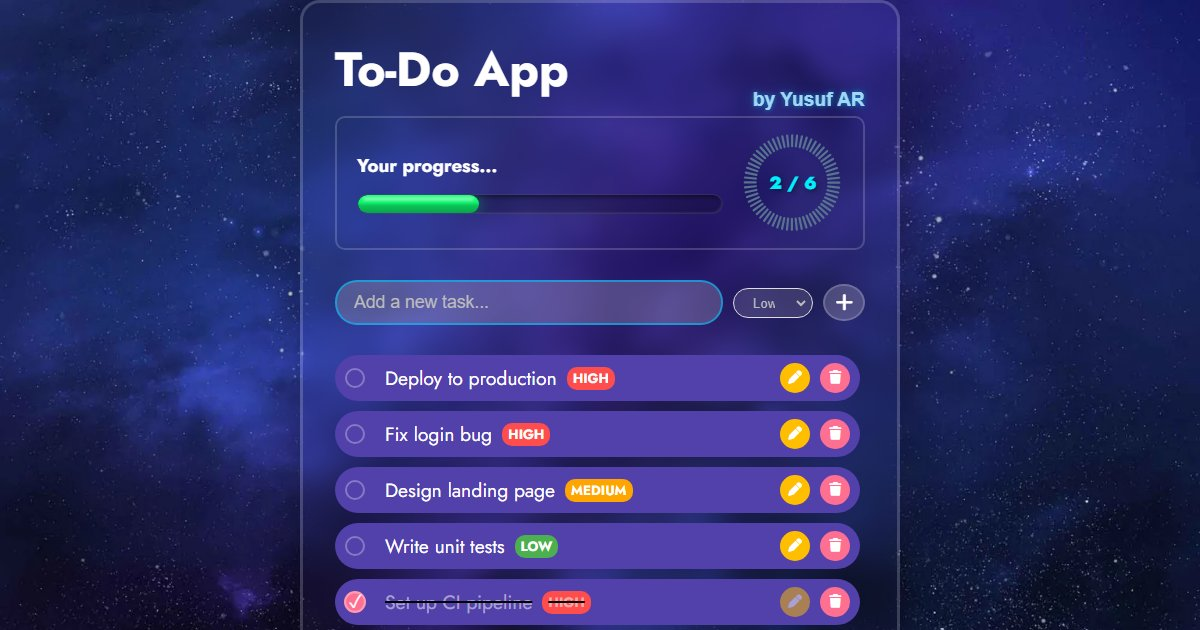
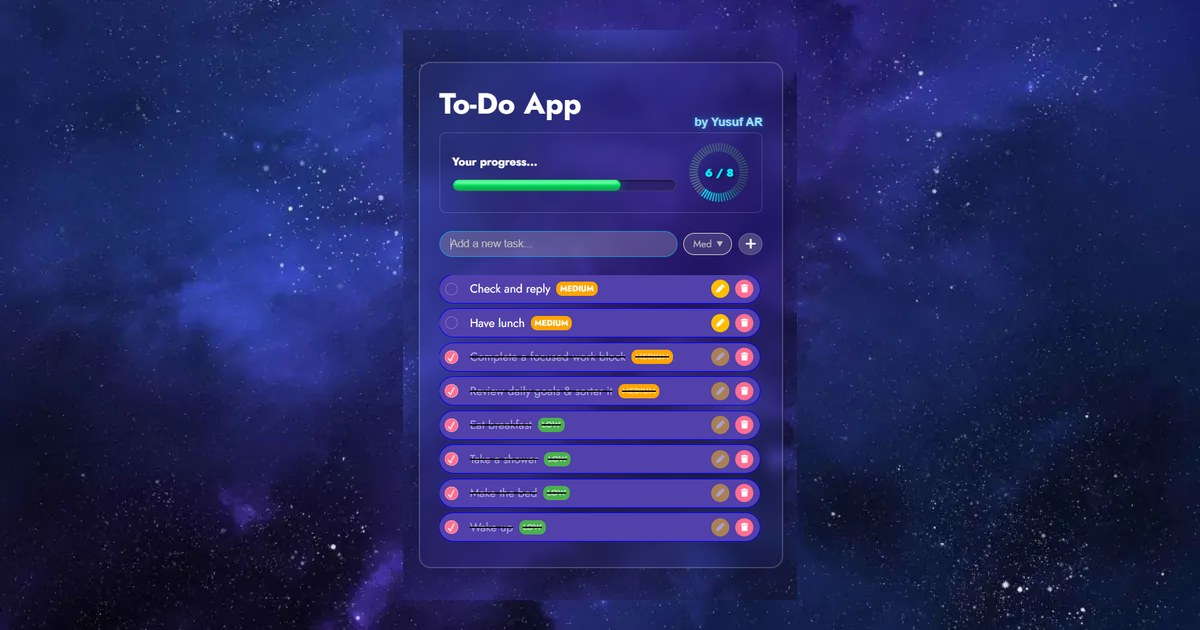
docs: use real app screenshots

diff --git a/README.md b/README.md
@@ -1,10 +1,12 @@
 # To-Do App
 
+[![CI](https://github.com/Yusuf-98/Todo-List-by-Yusuf-AR/actions/workflows/ci.yml/badge.svg)](https://github.com/Yusuf-98/Todo-List-by-Yusuf-AR/actions/workflows/ci.yml)
+
 A fast, no-framework task manager built with vanilla JavaScript — no build step, just open and run. Add tasks, set priorities, track progress, and pick up right where you left off — everything you add is saved locally in your browser.
 
 🚀 **Live demo:** https://todo-list-by-yusuf-ar.vercel.app/
 
-![To-Do App screenshot](./assets/screenshot.jpg)
+![To-Do App with a partially completed list and progress bar](./assets/screenshot-progress.webp)
 
 ## Features
 
@@ -13,6 +15,12 @@ A fast, no-framework task manager built with vanilla JavaScript — no build ste
 - Progress tracker (completed / total) with an animated ring and progress bar
 - Tasks persist across page reloads via `localStorage`
 - Loads its initial task list from a custom REST API ([todoList-API](https://github.com/Yusuf-98/todoList-API), served through [my-json-server](https://my-json-server.typicode.com/))
+
+## Screenshots
+
+| Empty state | Adding a task | Editing a task |
+| --- | --- | --- |
+| ![Empty task list](./assets/screenshot-empty.webp) | ![Adding a task with a priority level](./assets/screenshot-add-task.webp) | ![Editing a task inline](./assets/screenshot-edit-task.webp) |
 
 ## Tech Stack
 
@@ -32,6 +40,13 @@ cd Todo-List-by-Yusuf-AR
 ```
 
 Then simply open `index.html` in your browser, or serve the folder with any static server (e.g. the VS Code "Live Server" extension).
+
+To run the linter locally:
+
+```bash
+npm install
+npm run lint
+```
 
 ## Author
 
